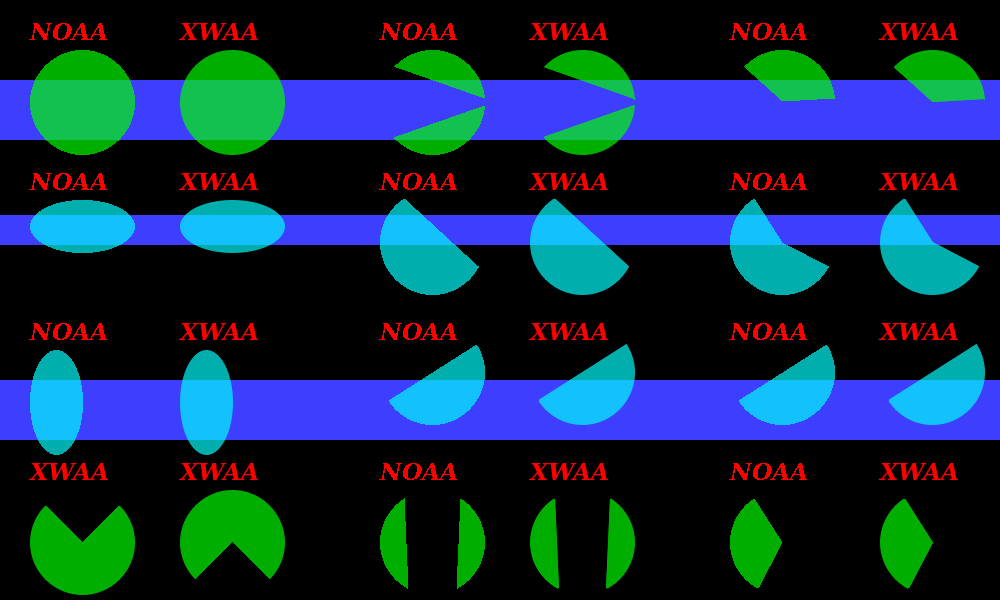
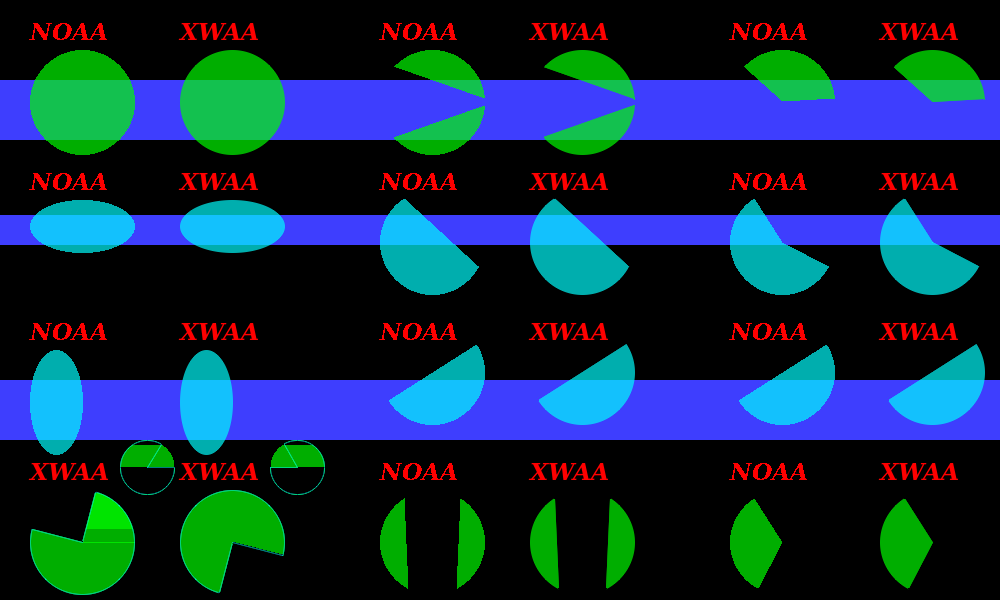
Working on fillArc - pie mode

diff --git a/src/Pt-Gfx/tests/ImagePainterTest2_Draw_Filled.cpp b/src/Pt-Gfx/tests/ImagePainterTest2_Draw_Filled.cpp
@@ -195,6 +195,7 @@ static void testDrawFillEllipse(const char* title, Image& image, Painter& painte
     painter.fillEllipse( PointF (30 + 150, 50), SizeF(105, 105) );
     painter.drawText( PointF(30 + 150, 40), "XWAA" );
 
+//*
     if(ip2) {
 #if 0
         ip2->setAntiAliasingMode(AntiAliasingMode::None);
@@ -232,6 +233,7 @@ static void testDrawFillEllipse(const char* title, Image& image, Painter& painte
         ip2->drawText( PointF(30 + 850, 40), "XWAA" );
 #endif
     }
+//*/
 
 
     painter.setBrush( brush2 );
@@ -244,6 +246,7 @@ static void testDrawFillEllipse(const char* title, Image& image, Painter& painte
     painter.fillEllipse( PointF (30 + 150, 50 + 150), SizeF(105, 53) );
     painter.drawText( PointF(30 + 150, 40 + 150), "XWAA" );
 
+//*
     if(ip2) {
         ip2->setAntiAliasingMode(AntiAliasingMode::None);
         ip2->fillArc( PointF (30 + 350, 50 + 140), SizeF(105, 105), 120 + 3, 330 + 3, ArcMode::Chord );
@@ -261,6 +264,7 @@ static void testDrawFillEllipse(const char* title, Image& image, Painter& painte
         ip2->fillArc( PointF (30 + 850, 50 + 140), SizeF(105, 105), 120 + 3, 330 + 3, ArcMode::Pie );
         ip2->drawText( PointF(30 + 850, 40 + 150), "XWAA" );
     }
+//*/
 
 
     painter.setBrush( brush2 );
@@ -273,6 +277,7 @@ static void testDrawFillEllipse(const char* title, Image& image, Painter& painte
     painter.fillEllipse( PointF (30 + 150, 50 + 300), SizeF(53, 105) );
     painter.drawText( PointF(30 + 150, 40 + 300), "XWAA" );
 
+//*
     if(ip2) {
         ip2->setAntiAliasingMode(AntiAliasingMode::None);
         ip2->fillArc( PointF (30 + 350, 50 + 270), SizeF(105, 105), -150 + 3, 30 + 3, ArcMode::Chord );
@@ -290,19 +295,40 @@ static void testDrawFillEllipse(const char* title, Image& image, Painter& painte
         ip2->fillArc( PointF (30 + 850, 50 + 270), SizeF(105, 105), -150 + 3, 30 + 3, ArcMode::Pie );
         ip2->drawText( PointF(30 + 850, 40 + 300), "XWAA" );
     }
+//*/
 
 
     painter.setBrush( brush1 );
 
     if(ip2) {
         ip2->setAntiAliasingMode(AntiAliasingMode::Fastest);
-        ip2->fillArc( PointF (30 , 50 + 440), SizeF(105, 105), -225, 45, ArcMode::Pie );
+        ip2->fillArc( PointF (30 , 50 + 440), SizeF(105, 105), -225 + 30, 45 + 30, ArcMode::Pie );
+        ip2->fillArc( PointF (30 + 90 , 50 + 390), SizeF(55, 55), 30 + 30, 330 + 30, ArcMode::Pie );
         ip2->drawText( PointF(30 , 40 + 440), "XWAA" );
 
+        const CompositionMode cm = ip2->compositionMode();
+        ip2->setPen( Color::fromRgb8(0, 255, 255, 127) );
+        ip2->setCompositionMode(CompositionMode::SourceOver);
+        ip2->drawArc( PointF (30 + 90 , 50 + 390), SizeF(55, 55), 30 + 30, 330 + 30, ArcMode::Pie );
+        ip2->drawArc( PointF (30 , 50 + 440), SizeF(105, 105), -225 + 30, 45 + 30, ArcMode::Pie );
+        ip2->setCompositionMode(cm);
+        ip2->setPen( Color::fromRgb8(255, 0, 0) );
+
+        //*
         ip2->setAntiAliasingMode(AntiAliasingMode::Fastest);
-        ip2->fillArc( PointF (30 + 150, 50 + 440), SizeF(105, 105), -45, 225, ArcMode::Pie );
+        ip2->fillArc( PointF (30 + 150, 50 + 440), SizeF(105, 105), -45 + 30, 225 + 30, ArcMode::Pie );
+        ip2->fillArc( PointF (30 + 150 + 90, 50 + 390), SizeF(55, 55), -150 - 30, 150 - 30, ArcMode::Pie );
         ip2->drawText( PointF(30 + 150, 40 + 440), "XWAA" );
 
+        ip2->setPen( Color::fromRgb8(0, 255, 255, 127) );
+        ip2->setCompositionMode(CompositionMode::SourceOver);
+        ip2->drawArc( PointF (30 + 150, 50 + 440), SizeF(105, 105), -45 + 30, 225 + 30, ArcMode::Pie );
+        ip2->drawArc( PointF (30 + 150 + 90, 50 + 390), SizeF(55, 55), -150 - 30, 150 - 30, ArcMode::Pie );
+        ip2->setCompositionMode(cm);
+        ip2->setPen( Color::fromRgb8(255, 0, 0) );
+        //*/
+
+        //*
         ip2->setAntiAliasingMode(AntiAliasingMode::None);
         ip2->fillArc( PointF (30 + 350, 50 + 440), SizeF(105, 105), 120 + 3, 240 + 3, ArcMode::Chord );
         ip2->fillArc( PointF (30 + 350, 50 + 440), SizeF(105, 105), -60 - 3, 60 - 3, ArcMode::Chord );
@@ -320,6 +346,7 @@ static void testDrawFillEllipse(const char* title, Image& image, Painter& painte
         ip2->setAntiAliasingMode(AntiAliasingMode::Fastest);
         ip2->fillArc( PointF (30 + 850, 50 + 440), SizeF(105, 105), 120 + 3, 240 + 3, ArcMode::Pie );
         ip2->drawText( PointF(30 + 850, 40 + 440), "XWAA" );
+        //*/
     }
 
 

diff --git a/src/Pt-Gfx/ImagePainter2_Arc.cpp b/src/Pt-Gfx/ImagePainter2_Arc.cpp
@@ -395,6 +395,8 @@ void ImagePainter2::arcUtil_cropAndStoreScanlineForChord(Scanlines& scanlines, c
 
 void ImagePainter2::arcUtil_genScanlinesForPie(Scanlines& scanlines1, Scanlines& scanlines2, const FilledArcInfo& fai, const XWLineData& xwLine1, const XWLineData& xwLine2)
 {
+    // Check for a horizontal "v-shape"
+
     // Find the line's minimum and maximum Y coordinates
     Pt::int32_t lineMinY, lineMaxY;
 
@@ -438,7 +440,7 @@ void ImagePainter2::arcUtil_cropAndStoreScanlineForPie(Scanlines& scanlines1, Sc
     // Check if the scanline will be completely outside the shape
     if( (xwLine1.faceT && y <= lineMinY) || (xwLine2.faceT && y <= lineMinY) ||
         (xwLine1.faceB && y >= lineMaxY) || (xwLine2.faceB && y >= lineMaxY)
-      ) return;
+    ) return;
 
     // Get the element with the wanted coordinate from the left-side closing line
     XWPointsIterator lwb1 = xwLine1.points.lower_bound(y);
@@ -494,6 +496,7 @@ void ImagePainter2::arcUtil_cropAndStoreScanlineForPie(Scanlines& scanlines1, Sc
     }
 
     // Left-side line is facing left and right-side line is facing right
+    //  => we have got a vertical "v-shape" DETECT HOW ???
     else if( xwLine1.faceL && xwLine2.faceR ) {
         // Left
         if( lit1 != xwLine1.points.end() && xwLine1.insideYRange(y) ) {
@@ -507,7 +510,8 @@ void ImagePainter2::arcUtil_cropAndStoreScanlineForPie(Scanlines& scanlines1, Sc
         }
     }
 
-    // Left-side line is facing right and right-side line is facing left => we have got a vertical "V-shape"
+    // Left-side line is facing right and right-side line is facing left
+    //  => we have got a vertical "v-shape"
     else if( xwLine1.faceR && xwLine2.faceL ) {
         // Right
         if( lit1 != xwLine1.points.end() && xwLine1.insideYRange(y) ) {
@@ -518,6 +522,10 @@ void ImagePainter2::arcUtil_cropAndStoreScanlineForPie(Scanlines& scanlines1, Sc
         if( lit2 != xwLine2.points.end() && xwLine2.insideYRange(y) ) {
             if(xwLine2.steep) { if(xlc2 <  lit2->second.x + 1) xlc2 = lit2->second.x + 1; } // (X), (X + 1)
             else              { if(xlc2 <= lit2->second.x    ) xlc2 = lit2->second.x + 1; } // (X)
+        }
+        if( lit2 != xwLine2.points.end() && xwLine2.insideYRange(y) && !xwLine1.insideYRange(y) ) {
+            if(xwLine2.steep) { if(xlc1 <  lit2->second.x + 1) xlc1 = lit2->second.x + 1; } // (X), (X + 1)
+            else              { if(xlc1 <= lit2->second.x    ) xlc1 = lit2->second.x + 1; } // (X)
         }
     }
 

diff --git a/src/Pt-Gfx/tests/ImagePainterTest2.cpp b/src/Pt-Gfx/tests/ImagePainterTest2.cpp
@@ -48,8 +48,8 @@ using namespace Pt::Gfx;
 #define DO_BENCHMARKING 1
 
 // Detailed-test enable settings for Pt-Gfx
-#define TEST_SOURCECOPY                         1
-#define TEST_SOURCEOVER                         0
+#define TEST_SOURCECOPY                         0
+#define TEST_SOURCEOVER                         1
 
 #define TEST_DRAW_LINE_AND_TEXT                 0
 #define TEST_DRAW_RECTANGLES_FILLED_RECTANGLES  0
